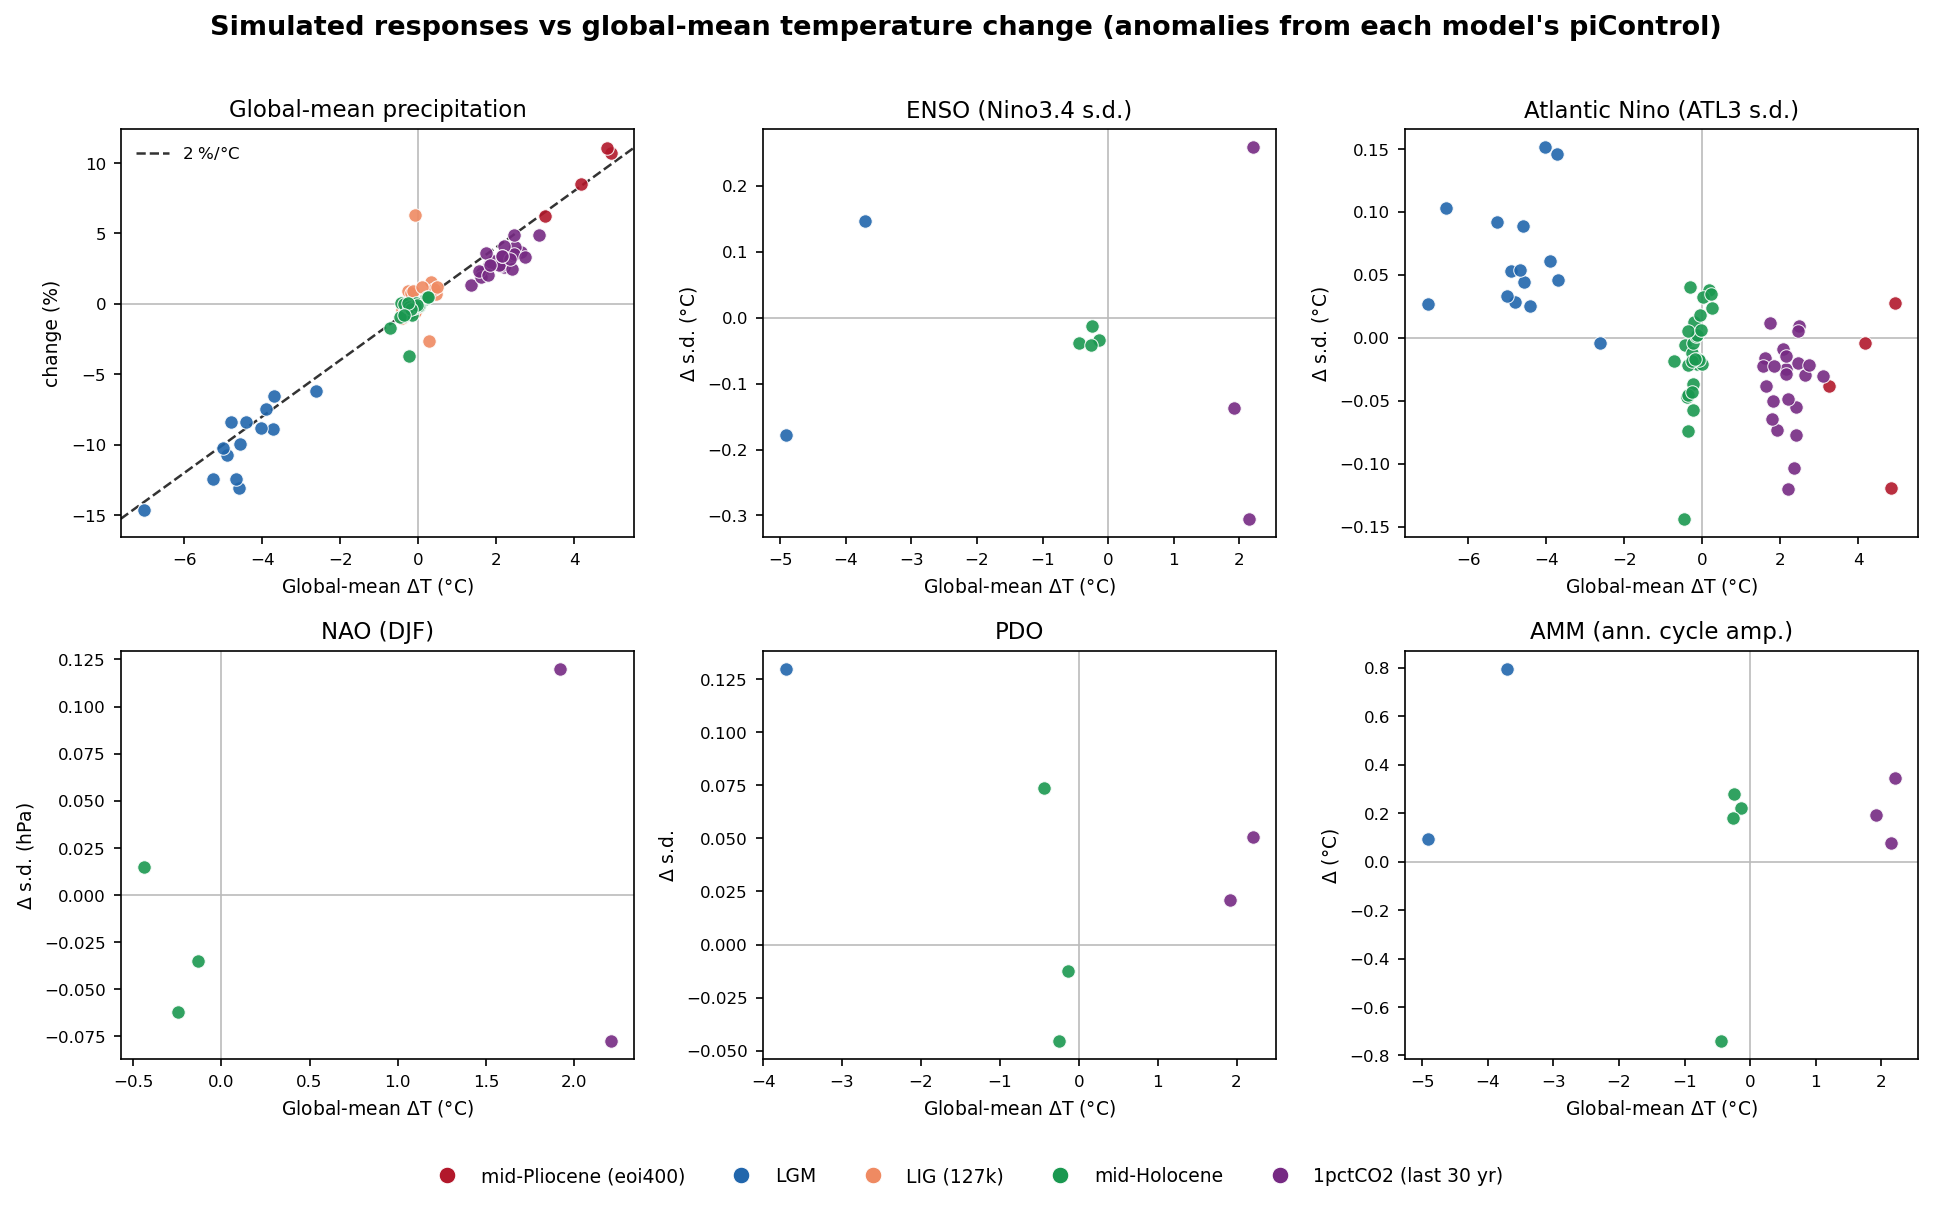
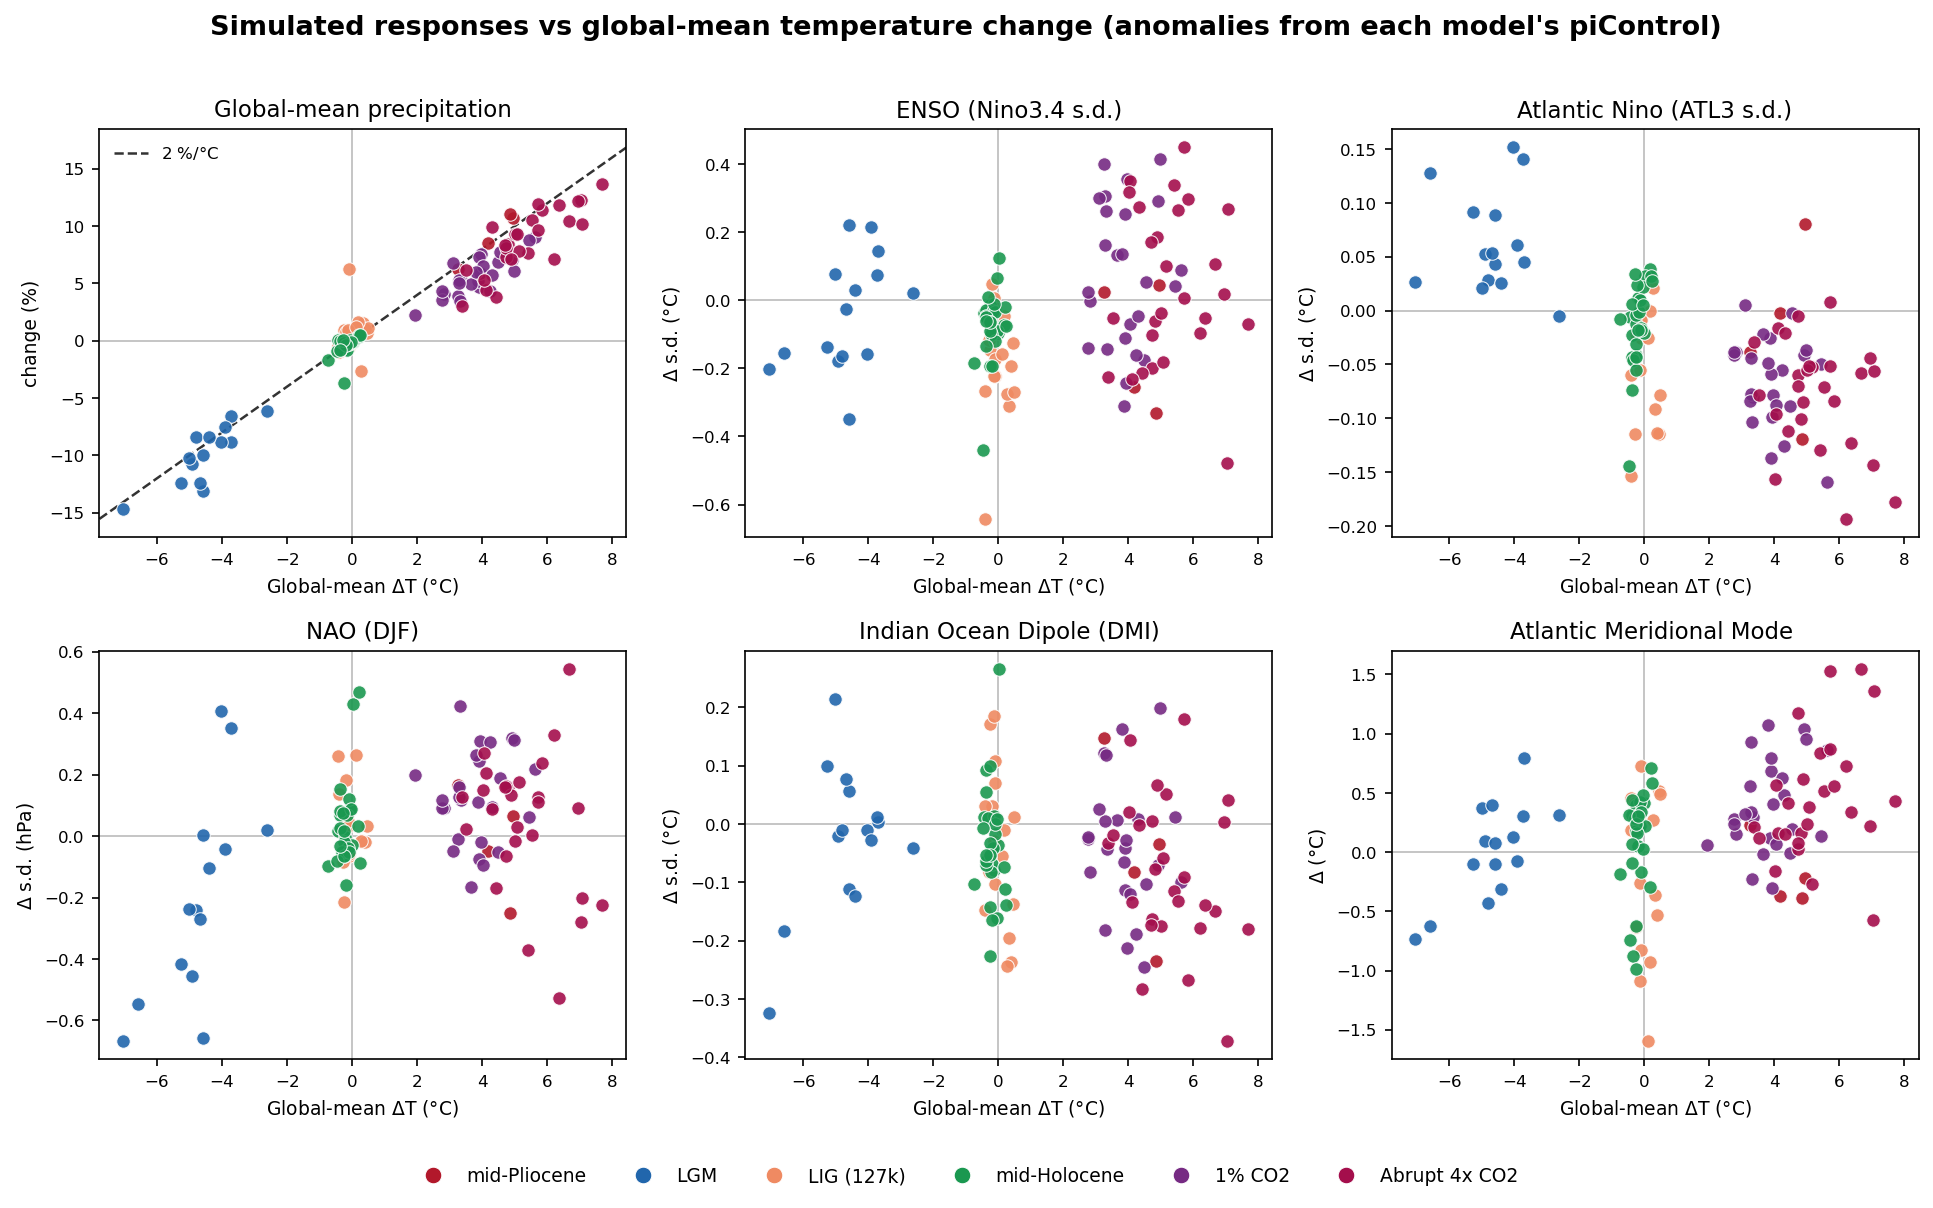
Updated the data in Scatterplot and switch PDO for IOD

diff --git a/scatterplots/scatter_vs_gmt.py b/scatterplots/scatter_vs_gmt.py
@@ -36,11 +36,12 @@ FILL_THRESH = 1e15
 # to avoid double-counting; abrupt4xCO2 rows are all fill values so they drop
 # out on their own.
 EXP_STYLE = {
-    'midPliocene-eoi400': ('#b2182b', 'mid-Pliocene (eoi400)'),
+    'midPliocene-eoi400': ('#b2182b', 'mid-Pliocene'),
     'lgm':                ('#2166ac', 'LGM'),
     'lig127k':            ('#ef8a62', 'LIG (127k)'),
     'midHolocene':        ('#1a9850', 'mid-Holocene'),
-    '1pctCO2':            ('#762a83', '1pctCO2 (last 30 yr)'),
+    '1pctCO2':            ('#762a83', '1% CO2'),
+    'abrupt4xCO2':        ('#a40e4C', 'Abrupt 4x CO2')
 }
 
 # Panels: (column, title, y-axis label, mode). mode 'pct' -> percentage change,
@@ -48,10 +49,10 @@ EXP_STYLE = {
 PANELS = [
     ('global_mean_precipitation', 'Global-mean precipitation', 'change (%)', 'pct'),
     ('Nino34 stddev',             'ENSO (Nino3.4 s.d.)',        r'$\Delta$ s.d. ($\degree$C)', 'diff'),
-    ('ATL3 stddev',               'Atlantic Nino (ATL3 s.d.)',  r'$\Delta$ s.d. ($\degree$C)', 'diff'),
+    ('AtlNino stddev',               'Atlantic Nino (ATL3 s.d.)',  r'$\Delta$ s.d. ($\degree$C)', 'diff'),
     ('NAO DJF',                   'NAO (DJF)',                  r'$\Delta$ s.d. (hPa)',        'diff'),
-    ('PDO mon',                   'PDO',                        r'$\Delta$ s.d.',              'diff'),
-    ('AMM AnnCycAmp',             'AMM (ann. cycle amp.)',      r'$\Delta$ ($\degree$C)',      'diff'),
+    ('IOD stddev',                'Indian Ocean Dipole (DMI)',  r'$\Delta$ s.d. ($\degree$C)', 'diff'),
+    ('AMM AnnCycAmp',             'Atlantic Meridional Mode ',  r'$\Delta$ ($\degree$C)',      'diff'),
 ]
 
 PRECIP_COL = 'global_mean_precipitation'
